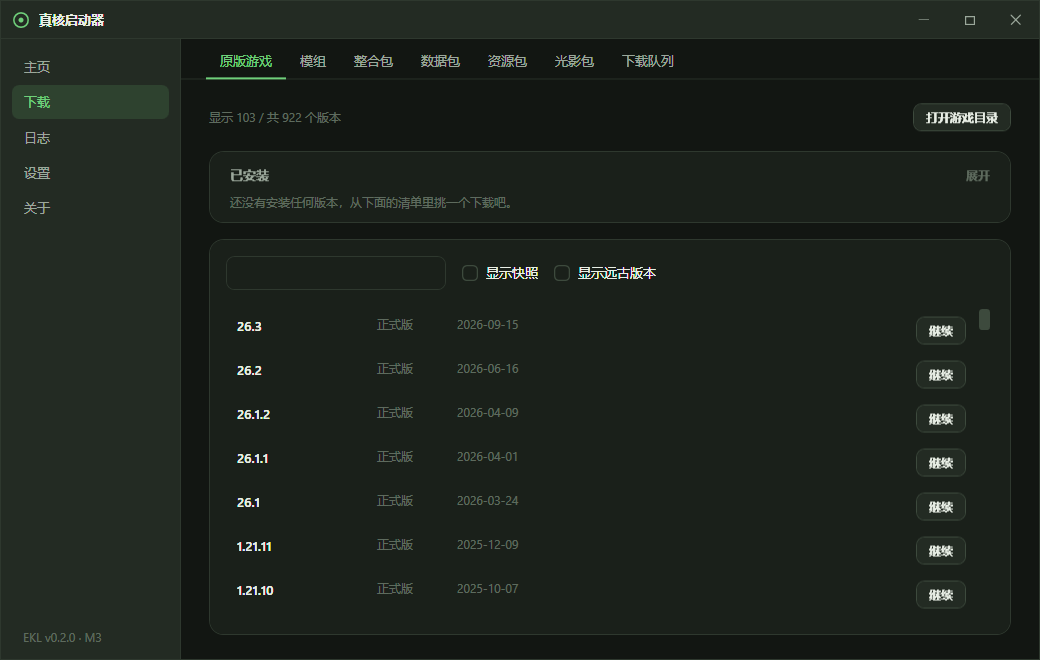
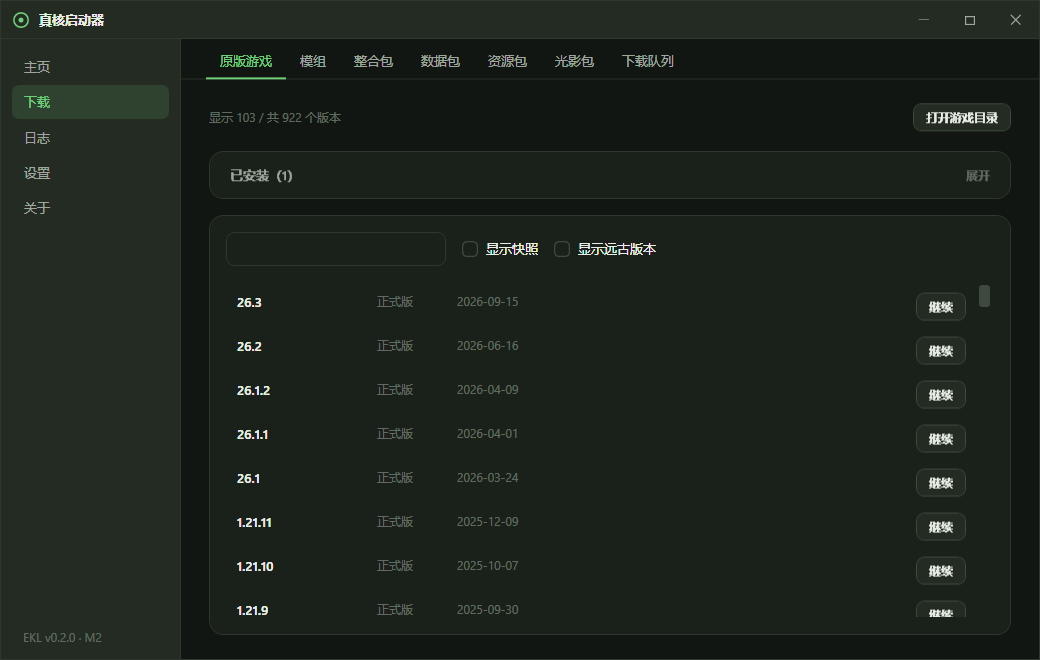
更新项目截图

diff --git a/tools/ui_readme_shots.py b/tools/ui_readme_shots.py
@@ -29,8 +29,9 @@ def click_nav(w, title):
 
 
 def main():
+    exe = sys.argv[1] if len(sys.argv) > 1 else EXE
     os.makedirs(OUT, exist_ok=True)
-    w = Walker(EXE, OUT)
+    w = Walker(exe, OUT)
     w.start()
     try:
         time.sleep(1)
